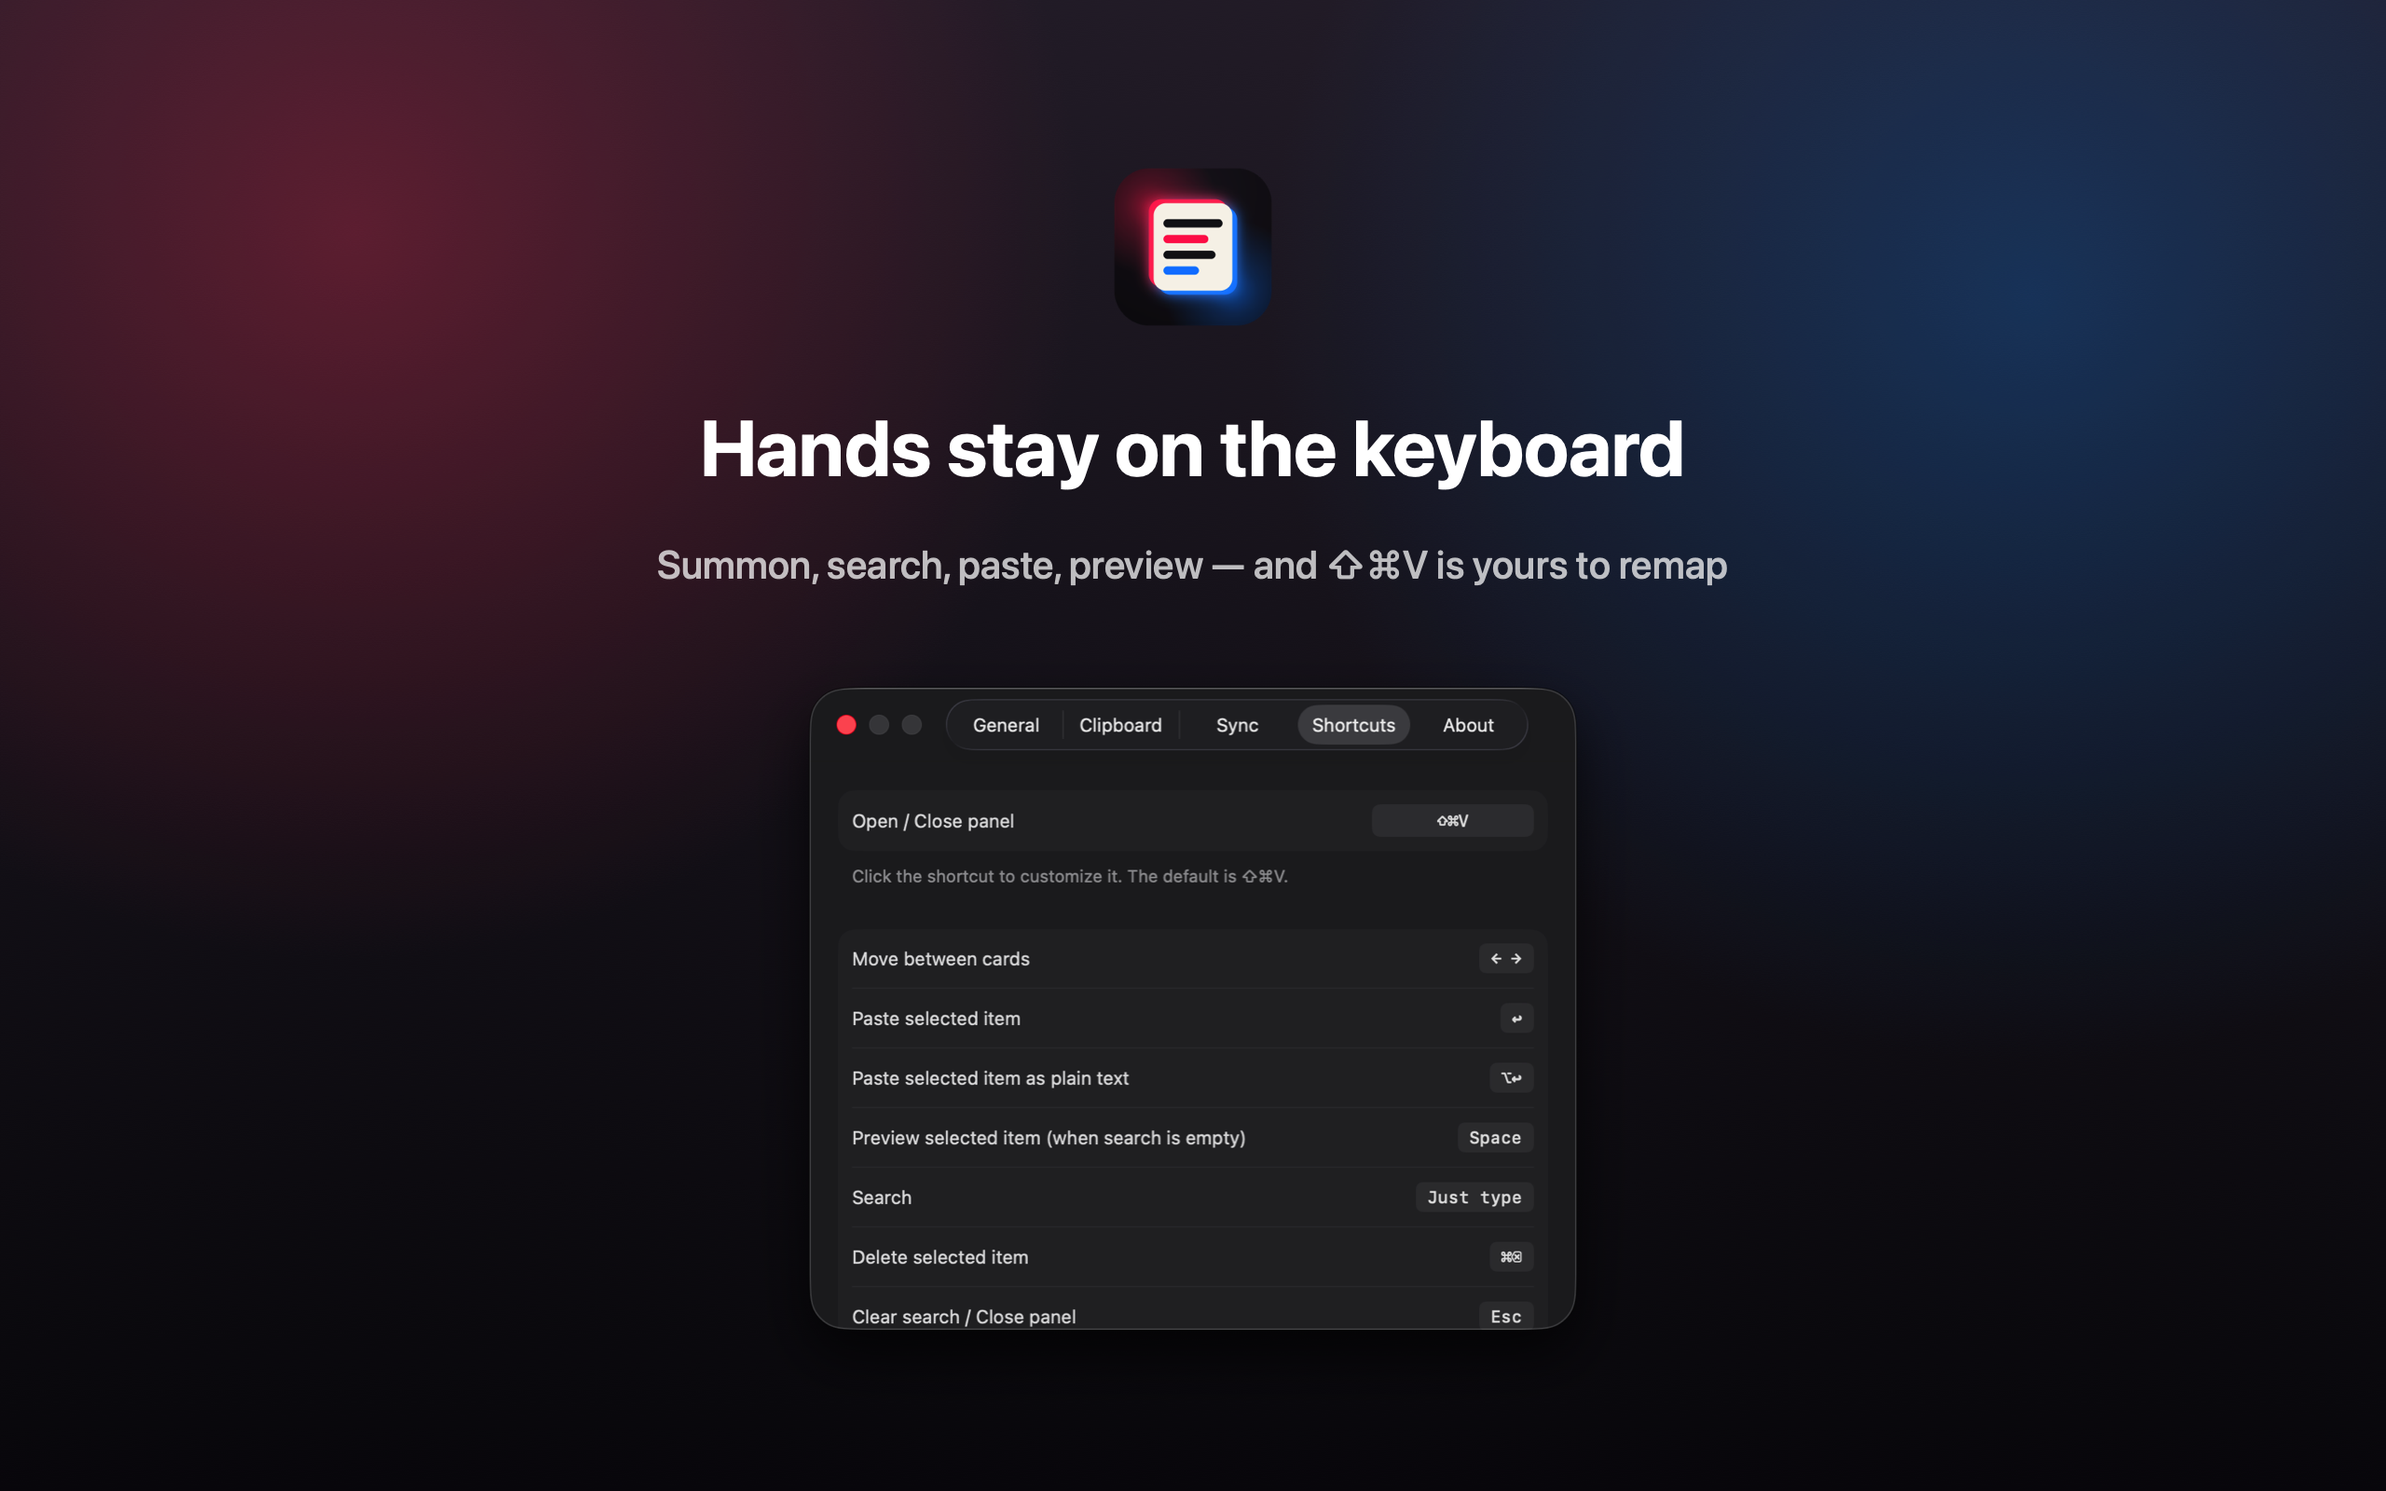
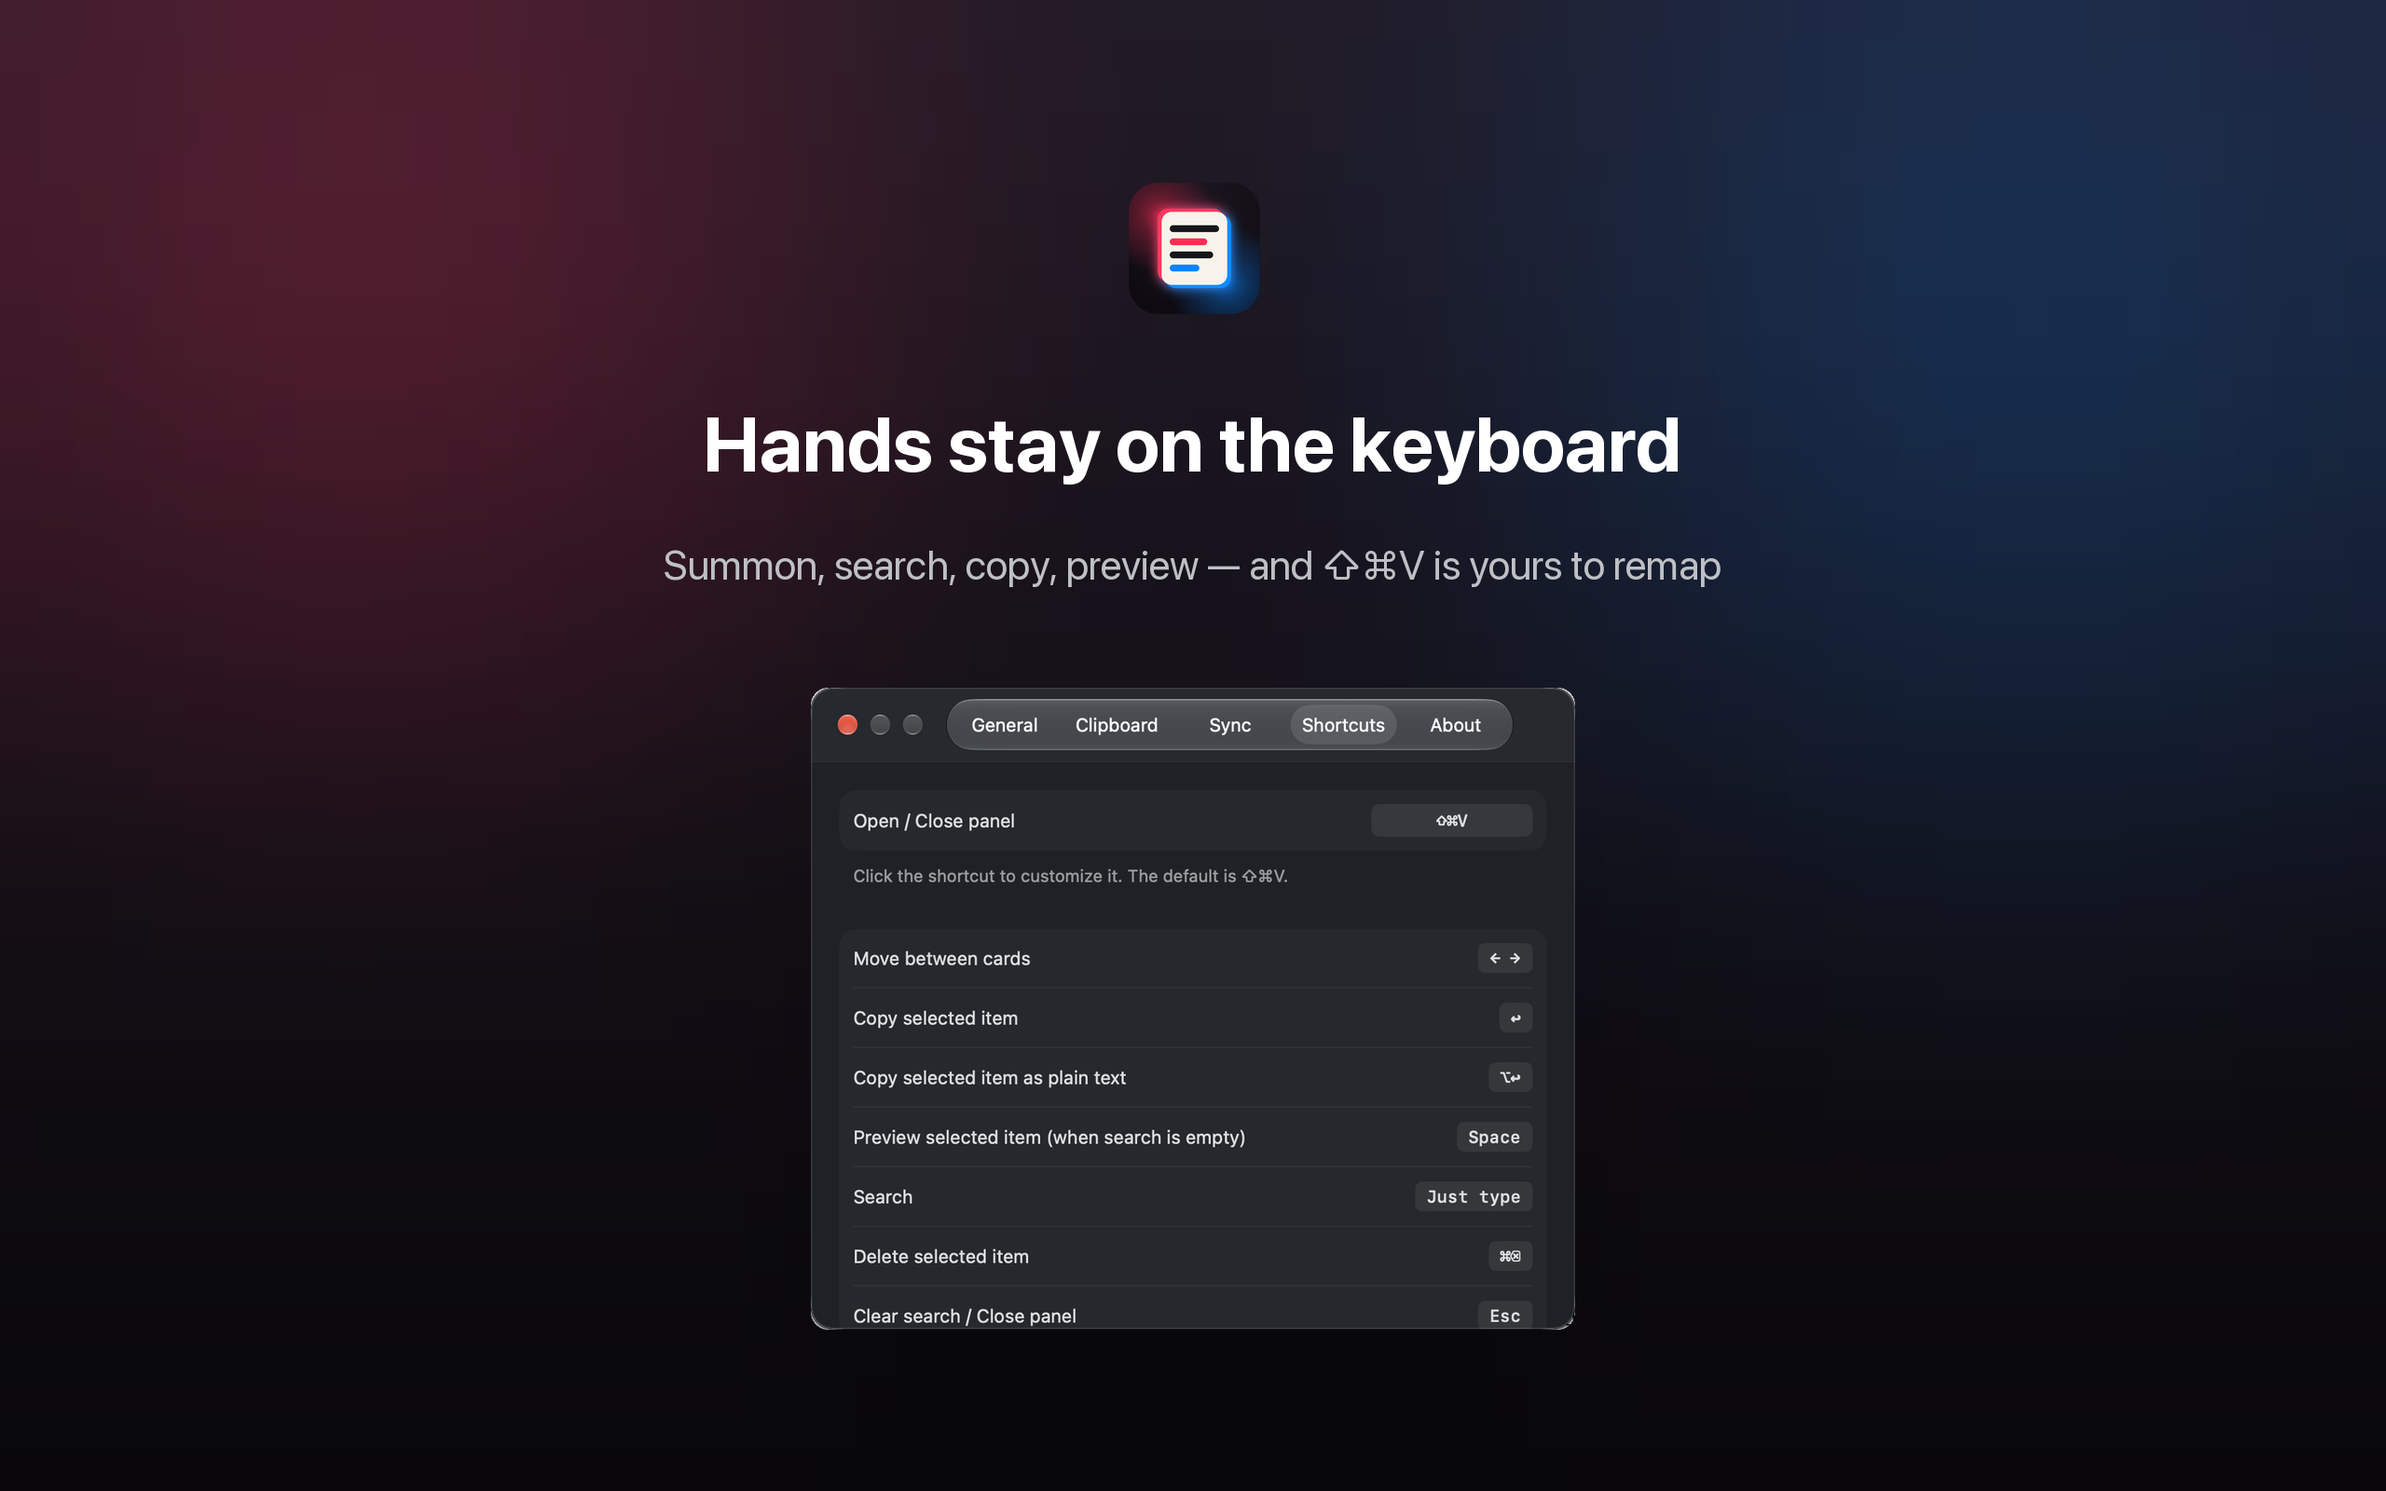
[docs][copyo][1.0]: reshoot the store screenshots and add a repeatable pipeline
初版四张里有两张仍在宣传 1.0 (4) 已移除的自动粘贴：03 的副标题写着
"then ↩ to paste"／「↩ 直接粘贴」，04 的设置页截图里还是 "Paste selected
item"。与审核备注「本应用不粘贴、不使用辅助功能」自相矛盾，2.4.5 正是
2026-09-08 那次拒审的条款。

四张全部重拍而不是只补两张：初版面板高 564px，本机采集是 507px（屏幕
宽高比不同），只换两张会让卡片大小对不上。

- 新增 scripts/make-store-shots.py：背景板 + 图标 + 标题 + 副标题 + 真实
  UI 截图的合成管线，版式参数由初版实测标定，图标包围盒与初版逐像素一致
- 新增 art/store/_background-plate.png：从初版反推出的干净渐变背景
- AppDelegate 增加 -showPanel 启动开关，与既有截图开关同类；省去模拟 ⇧⌘V
  （全局快捷键走 Carbon，模拟按键要给控制方开辅助功能权限）
- 03/04 的中英副标题改掉「粘贴」的说法，01/02 文案不变、仅重采 UI

diff --git a/Copyo/App/AppDelegate.swift b/Copyo/App/AppDelegate.swift
@@ -83,12 +83,17 @@ final class AppDelegate: NSObject, NSApplicationDelegate {
             NSApplication.shared.registerForRemoteNotifications()
         }
 
-        // 自动化/截图辅助：-forceDark 强制深色外观；-showSettings 直接打开设置窗口
+        // 自动化/截图辅助：-forceDark 强制深色外观；-showSettings 直接打开设置窗口；
+        // -showPanel 启动即拉起面板（拍商店截图时用，省得去模拟 ⇧⌘V——
+        // 全局快捷键走 Carbon，模拟按键要给控制方开辅助功能权限）
         if ProcessInfo.processInfo.arguments.contains("-forceDark") {
             NSApp.appearance = NSAppearance(named: .darkAqua)
         }
         if ProcessInfo.processInfo.arguments.contains("-showSettings") {
             openSettings()
+        }
+        if ProcessInfo.processInfo.arguments.contains("-showPanel") {
+            panelController.show()
         }
 
         // 首次启动：LSUIElement 应用没有窗口也没有 Dock 图标，

diff --git a/scripts/make-store-shots.py b/scripts/make-store-shots.py
@@ -1,0 +1,159 @@
+#!/usr/bin/env python3
+"""从真实 UI 截图合成 Mac App Store 商店截图（2560×1600，art/store/）。
+
+商店截图是合成图：统一的渐变背景板 + 应用图标 + 标题 + 副标题 + 真实 UI 截图。
+背景板 `art/store/_background-plate.png` 是从初版截图反推出来的，不要手改。
+
+## 一、先用应用自带的截图开关采集 UI
+
+应用里有一组只为截图存在的启动参数（见 AppDelegate / PanelRootView / SettingsView）：
+`-forceDark` 强制深色、`-opaquePanel` 面板不透明、`-showPanel` 启动即拉起面板、
+`-demoSearch <词>` 预置搜索词、`-demoPreview` 启动即开预览、
+`-showSettings -settingsTab <0-4>` 直接打开设置的某个标签页。
+
+演示数据要先灌进 `~/Library/Application Support/Copyo/Copyo.store`，别拿自己的真实剪贴板
+去拍——那会把私人内容发到 App Store 上。
+
+    APP=build/Build/Products/Debug/Copyo.app
+    for lang in en zh-Hans; do
+      open $APP --args -AppleLanguages "($lang)" -forceDark -opaquePanel -showPanel
+      sleep 6 && screencapture -x raw_01.png && pkill -x Copyo
+      # 02 加 -demoSearch Q3；03 加 -demoPreview；04 用 -showSettings -settingsTab 3
+    done
+
+然后把面板／设置窗口从整屏截图里裁出来，放进 CAPTURE_DIR：
+面板存 `ui_01_<lang>.png`（整条面板，带满宽），设置窗口存 `ui_04_<lang>.png`（带圆角透明）。
+
+## 二、合成
+
+    python3 scripts/make-store-shots.py <CAPTURE_DIR>
+
+文案改这里的 TEXT 表。注意：**副标题不能承诺应用做不到的事**。1.0 (4) 移除自动粘贴后，
+初版截图里的「then ↩ to paste」「↩ 直接粘贴」「粘贴」全部作废——那正是 2.4.5 拒审的点。
+"""
+import sys
+from pathlib import Path
+from PIL import Image, ImageDraw, ImageFont
+
+REPO = Path(__file__).resolve().parent.parent
+STORE = REPO / "art" / "store"
+PLATE = STORE / "_background-plate.png"
+ICON = REPO / "art" / "icon" / "icon-512.png"
+
+W, H = 2560, 1600
+SF = "/System/Library/Fonts/SFNS.ttf"
+PINGFANG = ("/System/Library/AssetsV2/com_apple_MobileAsset_Font8/"
+            "86ba2c91f017a3749571a82f2c6d890ac7ffb2fb.asset/AssetData/PingFang.ttc")
+PINGFANG_SEMIBOLD, PINGFANG_REGULAR = 11, 3
+
+# 版式参数由初版截图实测而来，改动会破坏与既有截图的一致性
+ICON_XY, ICON_SIZE = (1194, 179), 175
+HEADLINE_TOP, SUBTITLE_TOP = 448, 590
+HEADLINE_COLOR, SUBTITLE_COLOR = (255, 255, 255), (190, 192, 197)
+WINDOW_RECT = (870, 738, 820, 689)   # 设置窗口贴图位置 x, y, w, h
+
+TEXT = {
+    "en": [
+        ("01-panel", "Everything you copied, one key away",
+         "Press ⇧⌘V — your clipboard history slides up", "panel"),
+        ("02-search", "Type to filter",
+         "Search by content, source app or file name — no clicking first", "panel"),
+        ("03-preview", "Space to peek",
+         "Preview text, images and files without leaving the panel", "panel"),
+        ("04-shortcuts", "Hands stay on the keyboard",
+         "Summon, search, copy, preview — and ⇧⌘V is yours to remap", "window"),
+    ],
+    "zh": [
+        ("01-panel", "复制过的一切，随叫随到",
+         "按下 ⇧⌘V，剪贴板历史从屏幕底部滑出", "panel"),
+        ("02-search", "即输即搜",
+         "按内容、来源应用、文件名过滤，不用先点搜索框", "panel"),
+        ("03-preview", "空格，先看一眼",
+         "大图预览文本、图片和文件，不用离开面板", "panel"),
+        ("04-shortcuts", "手不离键盘",
+         "呼出、导航、复制、预览，全程快捷键；⇧⌘V 可自定义", "window"),
+    ],
+}
+
+
+def sf_font(size, variation):
+    font = ImageFont.truetype(SF, size)
+    font.set_variation_by_name(variation)
+    return font
+
+
+def is_cjk(ch):
+    o = ord(ch)
+    return (0x3000 <= o <= 0x303F or 0x4E00 <= o <= 0x9FFF
+            or 0xFF00 <= o <= 0xFFEF or 0x2018 <= o <= 0x201D)
+
+
+def draw_centered(base, text, latin, cjk, top, color):
+    """逐字符选字体后整体居中。PingFang 没有 ⇧⌘ 这些符号，必须回退到 SF。"""
+    runs = []
+    for ch in text:
+        font = cjk if (cjk and is_cjk(ch)) else latin
+        if runs and runs[-1][1] is font:
+            runs[-1][0] += ch
+        else:
+            runs.append([ch, font])
+    pad = 300
+    scratch = Image.new("L", (W + 2 * pad, 420), 0)
+    draw = ImageDraw.Draw(scratch)
+    x = pad
+    for chunk, font in runs:
+        draw.text((x, 120), chunk, font=font, fill=255)
+        x += draw.textlength(chunk, font=font)
+    box = scratch.getbbox()
+    if box is None:
+        return
+    glyphs = scratch.crop(box)
+    mask = Image.new("L", (W, H), 0)
+    mask.paste(glyphs, ((W - glyphs.width) // 2, top))
+    base.paste(Image.new("RGB", (W, H), color), (0, 0), mask)
+
+
+def build(headline, subtitle, ui_path, kind, lang):
+    base = Image.open(PLATE).convert("RGB")
+    icon = Image.open(ICON).convert("RGBA").resize((ICON_SIZE, ICON_SIZE), Image.LANCZOS)
+    base.paste(icon, ICON_XY, icon)
+
+    if lang == "en":
+        head, sub, cjk_head, cjk_sub = sf_font(83, "Bold"), sf_font(44, "Regular"), None, None
+    else:
+        head, sub = sf_font(79, "Semibold"), sf_font(40, "Regular")
+        cjk_head = ImageFont.truetype(PINGFANG, 79, index=PINGFANG_SEMIBOLD)
+        cjk_sub = ImageFont.truetype(PINGFANG, 40, index=PINGFANG_REGULAR)
+    draw_centered(base, headline, head, cjk_head, HEADLINE_TOP, HEADLINE_COLOR)
+    draw_centered(base, subtitle, sub, cjk_sub, SUBTITLE_TOP, SUBTITLE_COLOR)
+
+    ui = Image.open(ui_path)
+    if kind == "panel":
+        # 面板满宽贴底。面板高度由应用固定，屏幕越宽贴出来越扁，
+        # 所以同一批截图必须在同一台机器上采集，否则卡片大小对不上。
+        ui = ui.convert("RGB")
+        height = int(ui.height * (W / ui.width))
+        base.paste(ui.resize((W, height), Image.LANCZOS), (0, H - height))
+    else:
+        x, y, w, h = WINDOW_RECT
+        ui = ui.convert("RGBA").resize((w, h), Image.LANCZOS)
+        base.paste(ui, (x, y), ui)
+    return base
+
+
+def main():
+    if len(sys.argv) != 2:
+        sys.exit(f"用法：{Path(sys.argv[0]).name} <采集目录>")
+    captures = Path(sys.argv[1])
+    for lang, rows in TEXT.items():
+        for name, headline, subtitle, kind in rows:
+            ui = captures / f"ui_{name.split('-')[0]}_{lang}.png"
+            if not ui.exists():
+                sys.exit(f"缺少采集文件：{ui}")
+            out = STORE / f"{name}-{lang}.png"
+            build(headline, subtitle, ui, kind, lang).save(out)
+            print("wrote", out.relative_to(REPO))
+
+
+if __name__ == "__main__":
+    main()

diff --git a/docs/appstore-submission.md b/docs/appstore-submission.md
@@ -552,8 +552,45 @@ Cardo、Roneo、Inkyo 等十余个也都撞了在架应用或踩了发音雷。
    欧盟那部分与 DSA 交易者状态绑在一起。
 3. **DSA 交易者状态**（见第十节）。
 4. **构建版本**：还没有可上传的包。需要用新的 App ID 归档签名。
-5. **截图 03 / 04 要重拍**：仓库里 `art/store/03-preview-*` 的副标题写着「then ↩ to paste」，
-   `04-shortcuts-*` 的设置页里还是「Paste selected item」「Paste selected item as plain text」——
-   这两条文案在 1.0 (4) 移除自动粘贴时就删了。拿去提审等于截图展示一个会自动粘贴的应用，
-   而审核备注写的是本应用不粘贴、不使用辅助功能，自相矛盾，有再吃一次 2.4.5 的风险。
-   目前版本页只放了 01、02 两张干净的。
+5. ~~截图 03 / 04 要重拍~~ **已重拍**，见第十六节。
+
+## 十六、商店截图重拍（2026-09-19）
+
+### 为什么必须重拍
+
+初版四张是 Paster 1.0 时代拍的，其中两张仍在宣传 **1.0 (4) 已经移除的自动粘贴**：
+
+- `03-preview-*`：副标题「Preview text, images and files — then ↩ **to paste**」／「↩ **直接粘贴**」
+- `04-shortcuts-*`：设置页截图里是「**Paste** selected item」「**Paste** selected item as plain text」，
+  这两条文案在移除自动粘贴时就改成了 Copy / 复制
+
+拿去提审等于截图展示一个会自动粘贴的应用，而审核备注写的是「本应用不粘贴、不使用辅助功能」，
+自相矛盾——2.4.5 正是 2026-09-08 那次拒审的条款。
+
+### 做了什么
+
+四张**全部重拍**，而不是只补两张：初版面板高 564px，本机采集出来是 507px（屏幕宽高比不同），
+只换两张会让卡片大小对不上。
+
+新增 `scripts/make-store-shots.py`，把这件事变成可复现的管线：统一的渐变背景板
+（`art/store/_background-plate.png`，从初版反推）+ 应用图标 + 标题 + 副标题 + 真实 UI 截图。
+版式参数（图标位置与尺寸、标题/副标题基线与字号、设置窗口贴图位置）都由初版实测标定，
+新图与初版逐像素对齐（图标包围盒 1218–1340 × 204–329，完全一致）。
+
+`AppDelegate` 新增 `-showPanel` 启动开关（与既有的 `-forceDark`、`-demoPreview`、
+`-settingsTab` 同类），启动即拉起面板，省得靠模拟 ⇧⌘V——全局快捷键走 Carbon，
+模拟按键要给控制方开辅助功能权限。
+
+演示数据用一个一次性 Swift 包灌进库里再拍，**不要拿自己的真实剪贴板去拍**，
+那会把私人内容发到 App Store 上。拍完记得删掉 `~/Library/Application Support/Copyo/`。
+
+### 改掉的文案
+
+| 截图 | 旧（作废） | 新 |
+| --- | --- | --- |
+| 03 en | Preview text, images and files — then ↩ to paste | Preview text, images and files without leaving the panel |
+| 03 zh | 大图预览文本、图片和文件，↩ 直接粘贴 | 大图预览文本、图片和文件，不用离开面板 |
+| 04 en | Summon, search, **paste**, preview — and ⇧⌘V is yours to remap | Summon, search, **copy**, preview — and ⇧⌘V is yours to remap |
+| 04 zh | 呼出、导航、**粘贴**、预览，全程快捷键；⇧⌘V 可自定义 | 呼出、导航、**复制**、预览，全程快捷键；⇧⌘V 可自定义 |
+
+01 与 02 的文案原样保留，只是重新采集了 UI。
